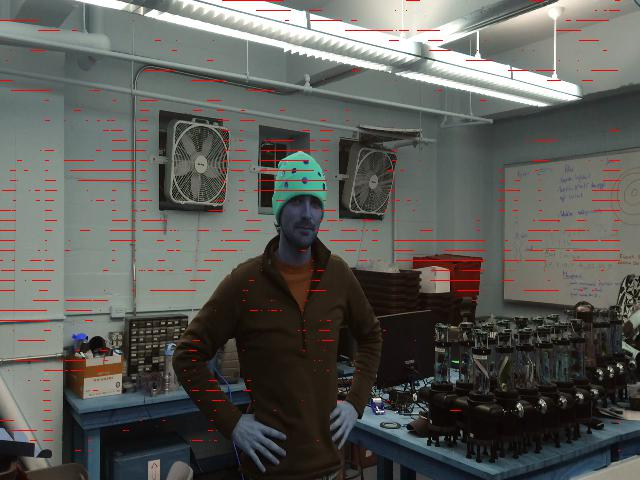
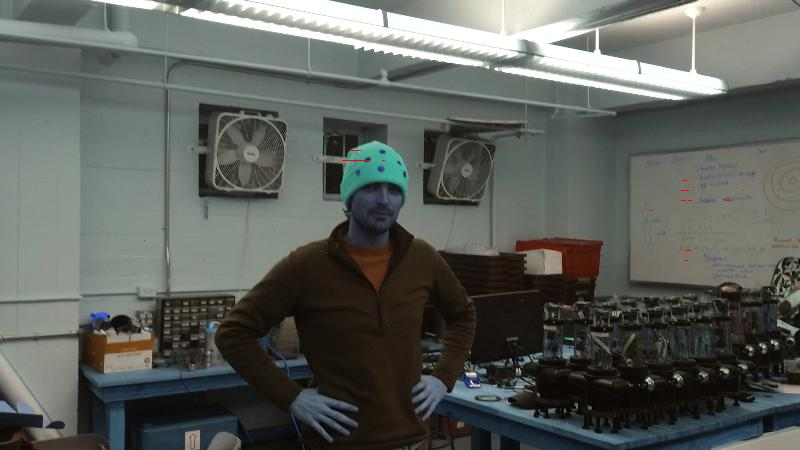
more negative examples

diff --git a/classifier.py b/classifier.py
@@ -11,14 +11,20 @@ class Classifier:
         self.debug=debug
 
         # generate the texton dictionary
+        print 'Generating texton dictionary'
         self.textons = generate_textons(input_video,debug=self.debug)
 
         # extract the feature vectors from the training video
+        print 'Extracting features...'
         self.fe = FeatureExtractor(self.textons)
         feature_vectors = []
         labels = []
         patches = []
+        curr_num = 0
         for patch,label in training_data_patches:
+            curr_num += 1
+            if curr_num % 1000 == 0:
+                print curr_num, '/', len(training_data_patches), ':', float(curr_num)/len(training_data_patches)
             patches.append(patch)
             feature_vector = self.fe.get_feature_vector(patch)
             labels.append(label)
@@ -27,14 +33,16 @@ class Classifier:
 
         X_train, X_test, y_train, y_test = cross_validation.train_test_split(feature_vectors, labels, test_size=.2, random_state=0)
 
+        print 'Fitting SVM...'
         # train the classifier on the training data
-        svc = svm.SVC()
-        params = {'kernel':('linear',), 'C':[1e-3]}
-        self.classifier = grid_search.GridSearchCV(svc, params)
+        # svc = svm.SVC()
+        # params = {'kernel':('linear',), 'C':[1e-3]}
+        # self.classifier = grid_search.GridSearchCV(svc, params)
+        # self.classifier.fit(X_train, y_train)
+        # print 'Best params:', self.classifier.best_params_
+        self.classifier = svm.SVC(kernel='linear', C=1e-3)
         self.classifier.fit(X_train, y_train)
-        print 'Best params:', self.classifier.best_params_
 
-        print 'Training data size:', len(X_train)
         print 'Result on test set:', self.classifier.score(X_test, y_test)
 
     def predict(self,patch):

diff --git a/main.py b/main.py
@@ -6,6 +6,7 @@ import sklearn.feature_extraction.image
 import config
 import numpy as np
 import scipy.misc
+import utils
 
 parser = argparse.ArgumentParser()
 parser.add_argument('input_video')
@@ -15,7 +16,8 @@ parser.add_argument('--viz', default=False)
 args = parser.parse_args()
 
 with open(args.training_data, 'r') as f:
-  training_data = cPickle.load(f)
+  input_str = f.read()
+training_data = cPickle.loads(input_str)
 
 classifier = Classifier(args.input_video, training_data['all_patches'], debug=True)
 
@@ -24,9 +26,11 @@ capture = cv2.VideoCapture(args.input_video)
 for i in range(1):
     retval,image = capture.read()
 
-    image_save = np.array(cv2.resize(image,(640,480)).astype(float))
-    image = cv2.resize(image,(640,480)).astype(float)/255.
-    image = np.array(image)
+    image = utils.canonicalize_image(image)
+    image_save = image.copy()
+    # image_save = np.array(cv2.resize(image,(640,480)).astype(float))
+    # image = cv2.resize(image,(640,480)).astype(float)/255.
+    # image = np.array(image)
     h,w = image.shape[0:2]
     
     for i in range(h-config.PATCH_SIZE):
@@ -34,7 +38,7 @@ for i in range(1):
             print i
             for j in range(w-config.PATCH_SIZE):
                 patch = image[i:i+config.PATCH_SIZE,j:j+config.PATCH_SIZE,:]
-                print patch.shape
+                #print patch.shape
                 if 1 in classifier.predict(patch):
                     image_save[i,j,:] = [255,0,0]
 

diff --git a/label_video.py b/label_video.py
@@ -6,6 +6,7 @@ import scipy.ndimage
 import cPickle
 import collections
 import config
+import utils
 
 import argparse
 parser = argparse.ArgumentParser()
@@ -14,7 +15,6 @@ parser.add_argument('output')
 args = parser.parse_args()
 
 FRAME_SKIP = 10
-WINDOW_SIZE = 800
 
 curr_frame_num = 0
 data = collections.defaultdict(dict)
@@ -41,10 +41,7 @@ capture = cv2.VideoCapture(args.input_video)
 while True:
     print 'Frame:', curr_frame_num
     retval, image = capture.read()
-    #image = cv2.cvtColor(orig_image, cv2.cv.CV_RGB2GRAY)
-
-    zoom_factor = WINDOW_SIZE / float(max(image.shape[:2]))
-    image = scipy.ndimage.interpolation.zoom(image, (zoom_factor, zoom_factor, 1))
+    image = utils.canonicalize_image(image)
 
     cv2.namedWindow('frame')
     cv.SetMouseCallback('frame', on_mouse, image)
@@ -73,7 +70,7 @@ for k in data:
 
   full_img = data[k]['full_img']
   start, end = data[k]['start'], data[k]['end']
-  for i in range(len(positive_patches)):
+  for i in range(len(positive_patches)*100):
     while True:
       a = np.random.randint(0, full_img.shape[0]-config.PATCH_SIZE)
       b = np.random.randint(0, full_img.shape[1]-config.PATCH_SIZE)

diff --git a/utils.py b/utils.py
@@ -1,5 +1,13 @@
+import scipy.ndimage
+import config
+
 def normalize_patches(patches):
     """Normalizes a patch - subracts mean and divides by l1 norm."""
     out = patches - patches.mean(axis=1)[:,None]
     out /= abs(patches).sum(axis=1)[:,None] + .001
     return out
+
+
+def canonicalize_image(image):
+  zoom_factor = config.WINDOW_SIZE / float(max(image.shape[:2]))
+  return scipy.ndimage.interpolation.zoom(image, (zoom_factor, zoom_factor, 1))

diff --git a/config.py b/config.py
@@ -1,2 +1,4 @@
 TEXTON_SIZE = 5
 PATCH_SIZE = 20
+
+WINDOW_SIZE = 800
